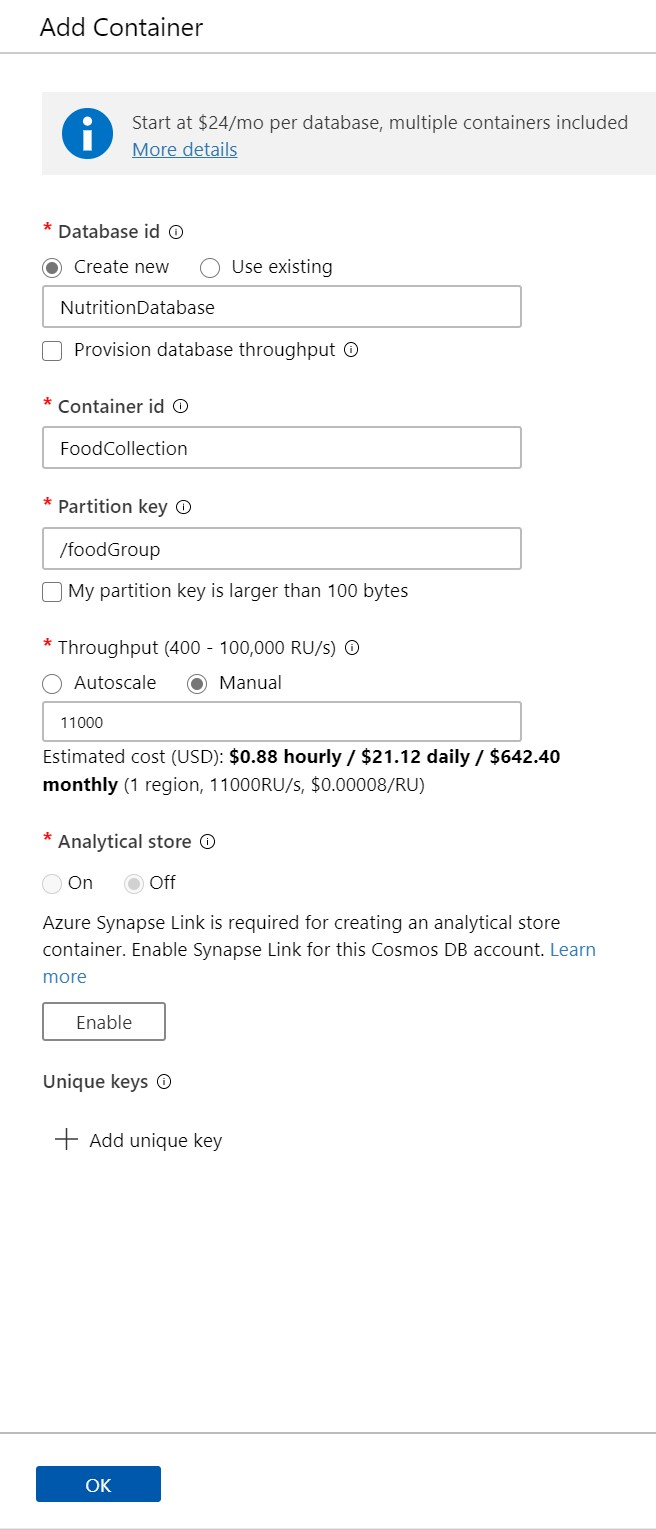
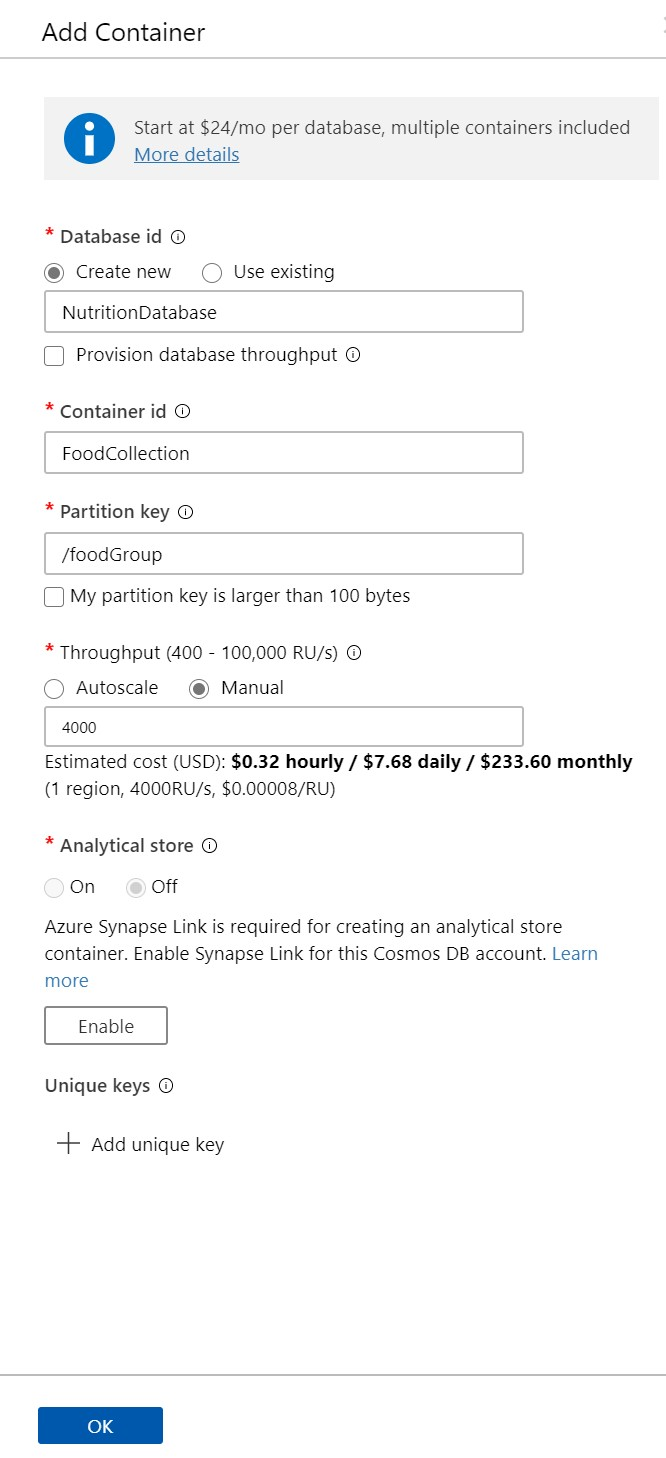
Updated a couple queries

diff --git a/month2/labs/lab_cosmos/Load_Data_ADF.md b/month2/labs/lab_cosmos/Load_Data_ADF.md
@@ -54,7 +54,7 @@
 - **Container id:** FoodCollection
 - **Partition key:** /foodGroup
 - **My partition key is larger than 100 bytes:** Do not check this option.
-- **Throughput (400 - 100,000 RU/s) More information:** Select **Manual** and enter the value 11000.
+- **Throughput (400 - 100,000 RU/s) More information:** Select **Manual** and enter the value 4000.
 
 <img src="./images/lab01/01-cosmosdb-add-container.jpg" alt="Cosmos DB Add Container"  Width="600">
 

diff --git a/month2/labs/lab_cosmos/Querying_Cosmosdb.md b/month2/labs/lab_cosmos/Querying_Cosmosdb.md
@@ -73,6 +73,7 @@ SELECT food.id,
 food.description,
 food.tags,
 food.foodGroup,
+food.manufacturerName,
 food.version
 FROM food
 WHERE (food.manufacturerName = "The Coca-Cola Company" AND food.version > 0)
@@ -318,4 +319,5 @@ SELECT VALUE c.description
 FROM c
 JOIN n IN c.nutrients
 WHERE n.units= "mg" AND n.nutritionValue > 0
+AND EXISTS(SELECT VALUE t FROM t IN c.tags WHERE t.name = 'orange')
 ```
